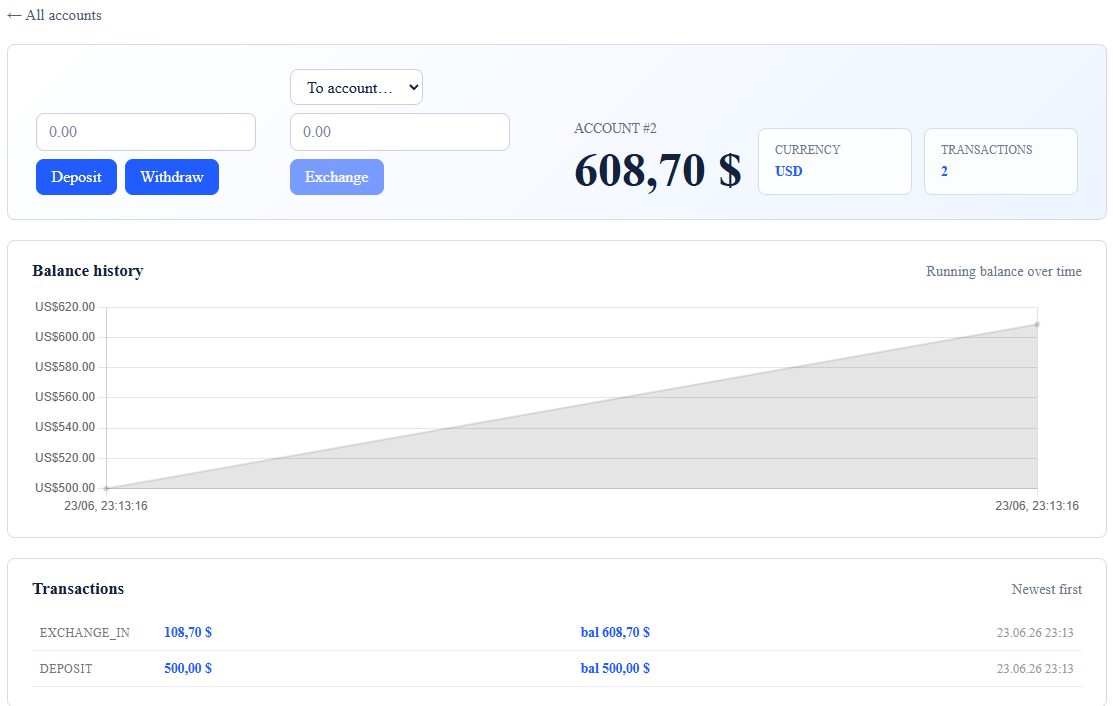
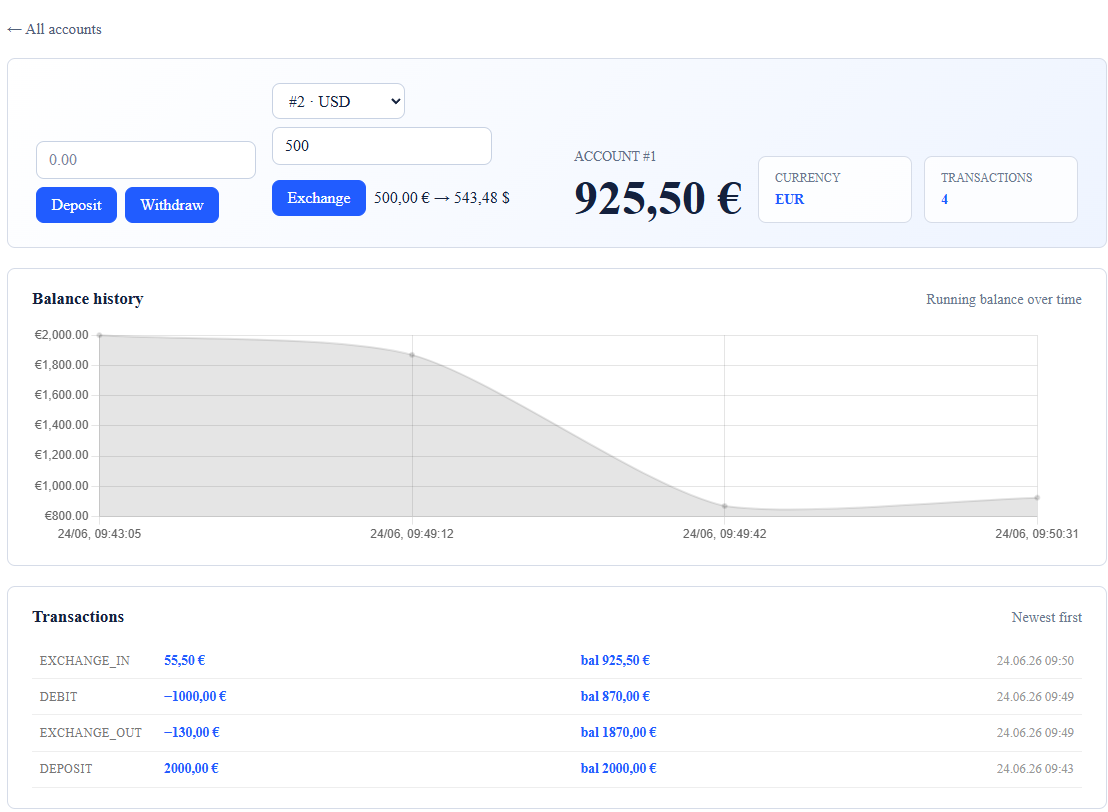
(feat) minor changes

diff --git a/ledger-web/src/app/core/api/ledger-api.ts b/ledger-web/src/app/core/api/ledger-api.ts
@@ -2,6 +2,7 @@ import { HttpClient, HttpParams } from '@angular/common/http';
 import { inject, Injectable } from '@angular/core';
 import { Observable } from 'rxjs';
 import {AccountSummary, CurrencyCode, LedgerEntry, Quote, TransactionPage} from '../models/ledger';
+import {normalizeAmount} from '../format';
 
 @Injectable({ providedIn: 'root' })
 export class LedgerApi {
@@ -32,16 +33,17 @@ export class LedgerApi {
   }
 
   deposit(accountId: number, amount: string): Observable<void> {
-    return this.http.post<void>(`${this.base}/accounts/${accountId}/deposit`, { amount });
+    return this.http.post<void>(`${this.base}/accounts/${accountId}/deposit`,
+      { amount: normalizeAmount(amount) });
   }
 
   debit(accountId: number, amount: string): Observable<void> {
-    return this.http.post<void>(`${this.base}/accounts/${accountId}/debit`, { amount });
+    return this.http.post<void>(`${this.base}/accounts/${accountId}/debit`, { amount: normalizeAmount(amount) });
   }
 
   exchange(fromAccountId: number, toAccountId: number, amount: string): Observable<void> {
     return this.http.post<void>(`${this.base}/accounts/exchange`,
-      { fromAccountId, toAccountId, amount });
+      { fromAccountId, toAccountId,  amount:  normalizeAmount(amount) });
   }
 
   quote(from: number, to: number, amount: string): Observable<Quote> {

diff --git a/ledger-web/src/app/core/format.ts b/ledger-web/src/app/core/format.ts
@@ -16,3 +16,7 @@ export function formatDateTime(value: string): string {
     `${pad(date.getHours())}:${pad(date.getMinutes())}:${pad(date.getSeconds())}`,
   ].join(' ');
 }
+
+export function normalizeAmount(input: string): string {
+  return input.trim().replace(',', '.');
+}